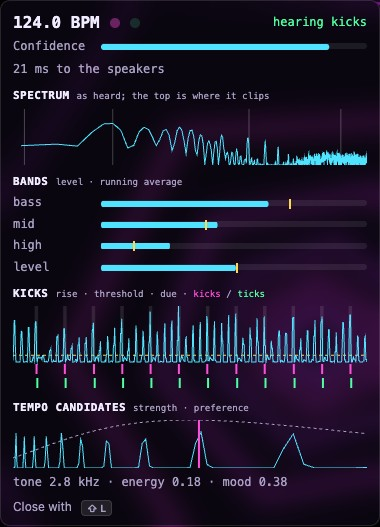
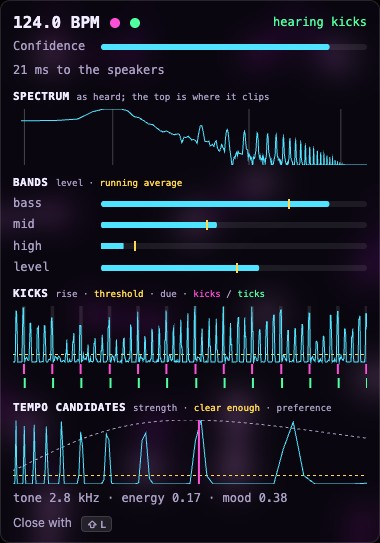
Make the Hearing monitor's tempo candidates readable on weak tracks
The strength curve was drawn on a fixed 0..1 scale, so a track whose kicks
repeat faintly (confidence ~0.13) left it a flat line. It is now scaled to
its peak, but never past the strength it takes to hear a pulse at all
(PULSE_CLARITY, dashed yellow), so noise stays flat; the Confidence bar
keeps the absolute strength. The plot is taller, and the legend words
for the yellow marks (running average, threshold, clear enough) are
yellow too.

diff --git a/src/components/HearingMonitor.tsx b/src/components/HearingMonitor.tsx
@@ -86,21 +86,24 @@ function drawKicks(k: HearingDiagnostics['kicks']) {
   };
 }
 
-// How strongly the kick signal repeats at each tempo, the Listener's preference dashed, and the tempo heard marked.
+// How strongly the kick signal repeats at each tempo, scaled to its peak (but never past the strength it takes to
+// hear a pulse, dashed yellow, so noise stays flat), the Listener's preference dashed, and the tempo heard marked.
 function drawCandidates(cand: HearingDiagnostics['candidates'], heard: number | null) {
   return (c: CanvasRenderingContext2D, w: number, h: number) => {
     if (cand.bpm.length < 2) return;
     const lo = cand.bpm[0]!, hi = cand.bpm[cand.bpm.length - 1]!;
     const x = (bpm: number) => ((bpm - lo) / (hi - lo)) * w;
-    const curve = (values: number[], colour: string, dash: number[]) => {
+    const top = Math.max(cand.clear, ...cand.strength);
+    const curve = (values: number[], scale: number, colour: string, dash: number[]) => {
       c.strokeStyle = colour;
       c.setLineDash(dash);
       c.beginPath();
-      values.forEach((v, i) => (i ? c.lineTo(x(cand.bpm[i]!), h - v * h) : c.moveTo(x(cand.bpm[i]!), h - v * h)));
+      values.forEach((v, i) => (i ? c.lineTo(x(cand.bpm[i]!), h - (v / scale) * h) : c.moveTo(x(cand.bpm[i]!), h - (v / scale) * h)));
       c.stroke();
     };
-    curve(cand.preference, COLOURS.muted, [3, 3]);
-    curve(cand.strength, COLOURS.line, []);
+    curve(cand.preference, 1, COLOURS.muted, [3, 3]);
+    curve(cand.bpm.map(() => cand.clear), top, COLOURS.threshold, [3, 3]);
+    curve(cand.strength, top, COLOURS.line, []);
     c.setLineDash([]);
     if (heard !== null) { c.fillStyle = COLOURS.kick; c.fillRect(x(heard) - 1, 0, 2, h); }
   };
@@ -134,7 +137,7 @@ function HearingPanel({ view }: { view: HearingView }) {
       <h4>Spectrum <small>as heard; the top is where it clips</small></h4>
       {d.spectrum ? <Plot label="Spectrum" draw={drawSpectrum(d.spectrum)} /> : <div className="hearing-meta">Nothing connected</div>}
 
-      <h4>Bands <small>level · running average</small></h4>
+      <h4>Bands <small>level · <span className="average">running average</span></small></h4>
       {(['bass', 'mid', 'high', 'level'] as const).map((k) => (
         <div key={k} className="hearing-row" data-band={k}>
           <span>{k}</span>
@@ -142,11 +145,11 @@ function HearingPanel({ view }: { view: HearingView }) {
         </div>
       ))}
 
-      <h4>Kicks <small>rise · threshold · due · <span className="kick">kicks</span> / <span className="tick">ticks</span></small></h4>
+      <h4>Kicks <small>rise · <span className="average">threshold</span> · due · <span className="kick">kicks</span> / <span className="tick">ticks</span></small></h4>
       <Plot label="Kick signal" height={84} draw={drawKicks(d.kicks)} />
 
-      <h4>Tempo candidates <small>strength · preference</small></h4>
-      <Plot label="Tempo candidates" height={48} draw={drawCandidates(d.candidates, t.heardBpm)} />
+      <h4>Tempo candidates <small>strength · <span className="average">clear enough</span> · preference</small></h4>
+      <Plot label="Tempo candidates" height={64} draw={drawCandidates(d.candidates, t.heardBpm)} />
 
       <div className="hearing-meta">
         tone {(view.centroid / 1000).toFixed(1)} kHz · energy {view.energy.toFixed(2)} · mood {view.mood.toFixed(2)}

diff --git a/src/engine/kick-hearer.ts b/src/engine/kick-hearer.ts
@@ -57,6 +57,7 @@ export interface PulseCandidates {
   bpm: number[];          // the pulse, slowest first
   strength: number[];     // 0..1 how strongly the rises repeat at it and its multiples
   preference: number[];   // 0..1 how much it is preferred for where pulses usually sit
+  clear: number;          // the strength it takes to hear a pulse at all
 }
 
 // How much a pulse `lag` cells long is preferred: most around PULSE_PRIOR_BPM, less an octave either side.
@@ -179,7 +180,7 @@ export class KickHearer {
   }
 
   candidates(): PulseCandidates {
-    const [lo, hi] = this.strengthLags, out: PulseCandidates = { bpm: [], strength: [], preference: [] };
+    const [lo, hi] = this.strengthLags, out: PulseCandidates = { bpm: [], strength: [], preference: [], clear: PULSE_CLARITY };
     for (let lag = hi; lag >= lo; lag--) {
       out.bpm.push(60 / (lag * RISES_CELL));
       out.strength.push(this.strengths[lag]!);

diff --git a/src/engine/listener.test.ts b/src/engine/listener.test.ts
@@ -486,6 +486,8 @@ describe('what the Hearing monitor is shown', () => {
     const best = candidates.bpm[weighed.indexOf(Math.max(...weighed))]!;
     expect(best).toBeGreaterThan(121);
     expect(best).toBeLessThan(127);
+    expect(candidates.clear).toBeGreaterThan(0);   // the strength it takes to hear a pulse at all ...
+    expect(Math.max(...candidates.strength)).toBeGreaterThanOrEqual(candidates.clear);   // ... which a steady kick drum has
     // A kick grid repeats at twice its period too: 62 is a candidate nearly as strong, only preferred less.
     const at = (bpm: number) => candidates.bpm.reduce((b, v, i) => (Math.abs(v - bpm) < Math.abs(candidates.bpm[b]! - bpm) ? i : b), 0);
     expect(candidates.strength[at(62)]).toBeGreaterThan(candidates.strength[at(124)]! * 0.5);

diff --git a/src/style.css b/src/style.css
@@ -379,6 +379,7 @@ input[type="range"] { width: 100%; accent-color: var(--accent); }
 .hearing-light.tick { background: #4fffa0; }
 .hearing .kick { color: #ff4fd8; }
 .hearing .tick { color: #4fffa0; }
+.hearing .average { color: #ffd84f; }
 #hearing-state { color: var(--muted); margin-left: auto; }
 #hearing-state[data-state="hearing"] { color: #4fffa0; }
 #hearing-state[data-state="holding"] { color: #ffd84f; }

diff --git a/docs/audio.md b/docs/audio.md
@@ -50,9 +50,11 @@ projectors): what the Listener hears, and why it hears it that way. It only show
 - **Kicks** – the last 6 s of the rise in the kick's bins, newest on the right, with the threshold a kick must reach
   (dashed) and the windows where the next kick was due (shaded). Under it the kicks (pink) against the ticks (green):
   a tick trailing its kick shows how late the tick clock re-anchors.
-- **Tempo candidates** – how strongly the kick signal repeats at each tempo from 40 to 200 BPM, the Listener's
-  preference for tempos around 120 dashed, and the tempo the kicks gave marked. A half or double tempo standing as
-  tall as the heard one is where a half- or double-time reading comes from.
+- **Tempo candidates** – how strongly the kick signal repeats at each tempo from 40 to 200 BPM, scaled to its peak,
+  with the strength it takes to hear a pulse at all dashed in yellow (a curve that never reaches it is noise; the
+  Confidence bar gives the absolute strength), the Listener's preference for tempos around 120 dashed in grey, and
+  the tempo the kicks gave marked. A half or double tempo standing as tall as the heard one is where a half- or
+  double-time reading comes from.
 - **Tone, energy, mood** – the spectral centroid in kHz and the two values (see below).
 
 It stacks under the performance monitor (Shift+P) when both are open. Research notes behind it:
